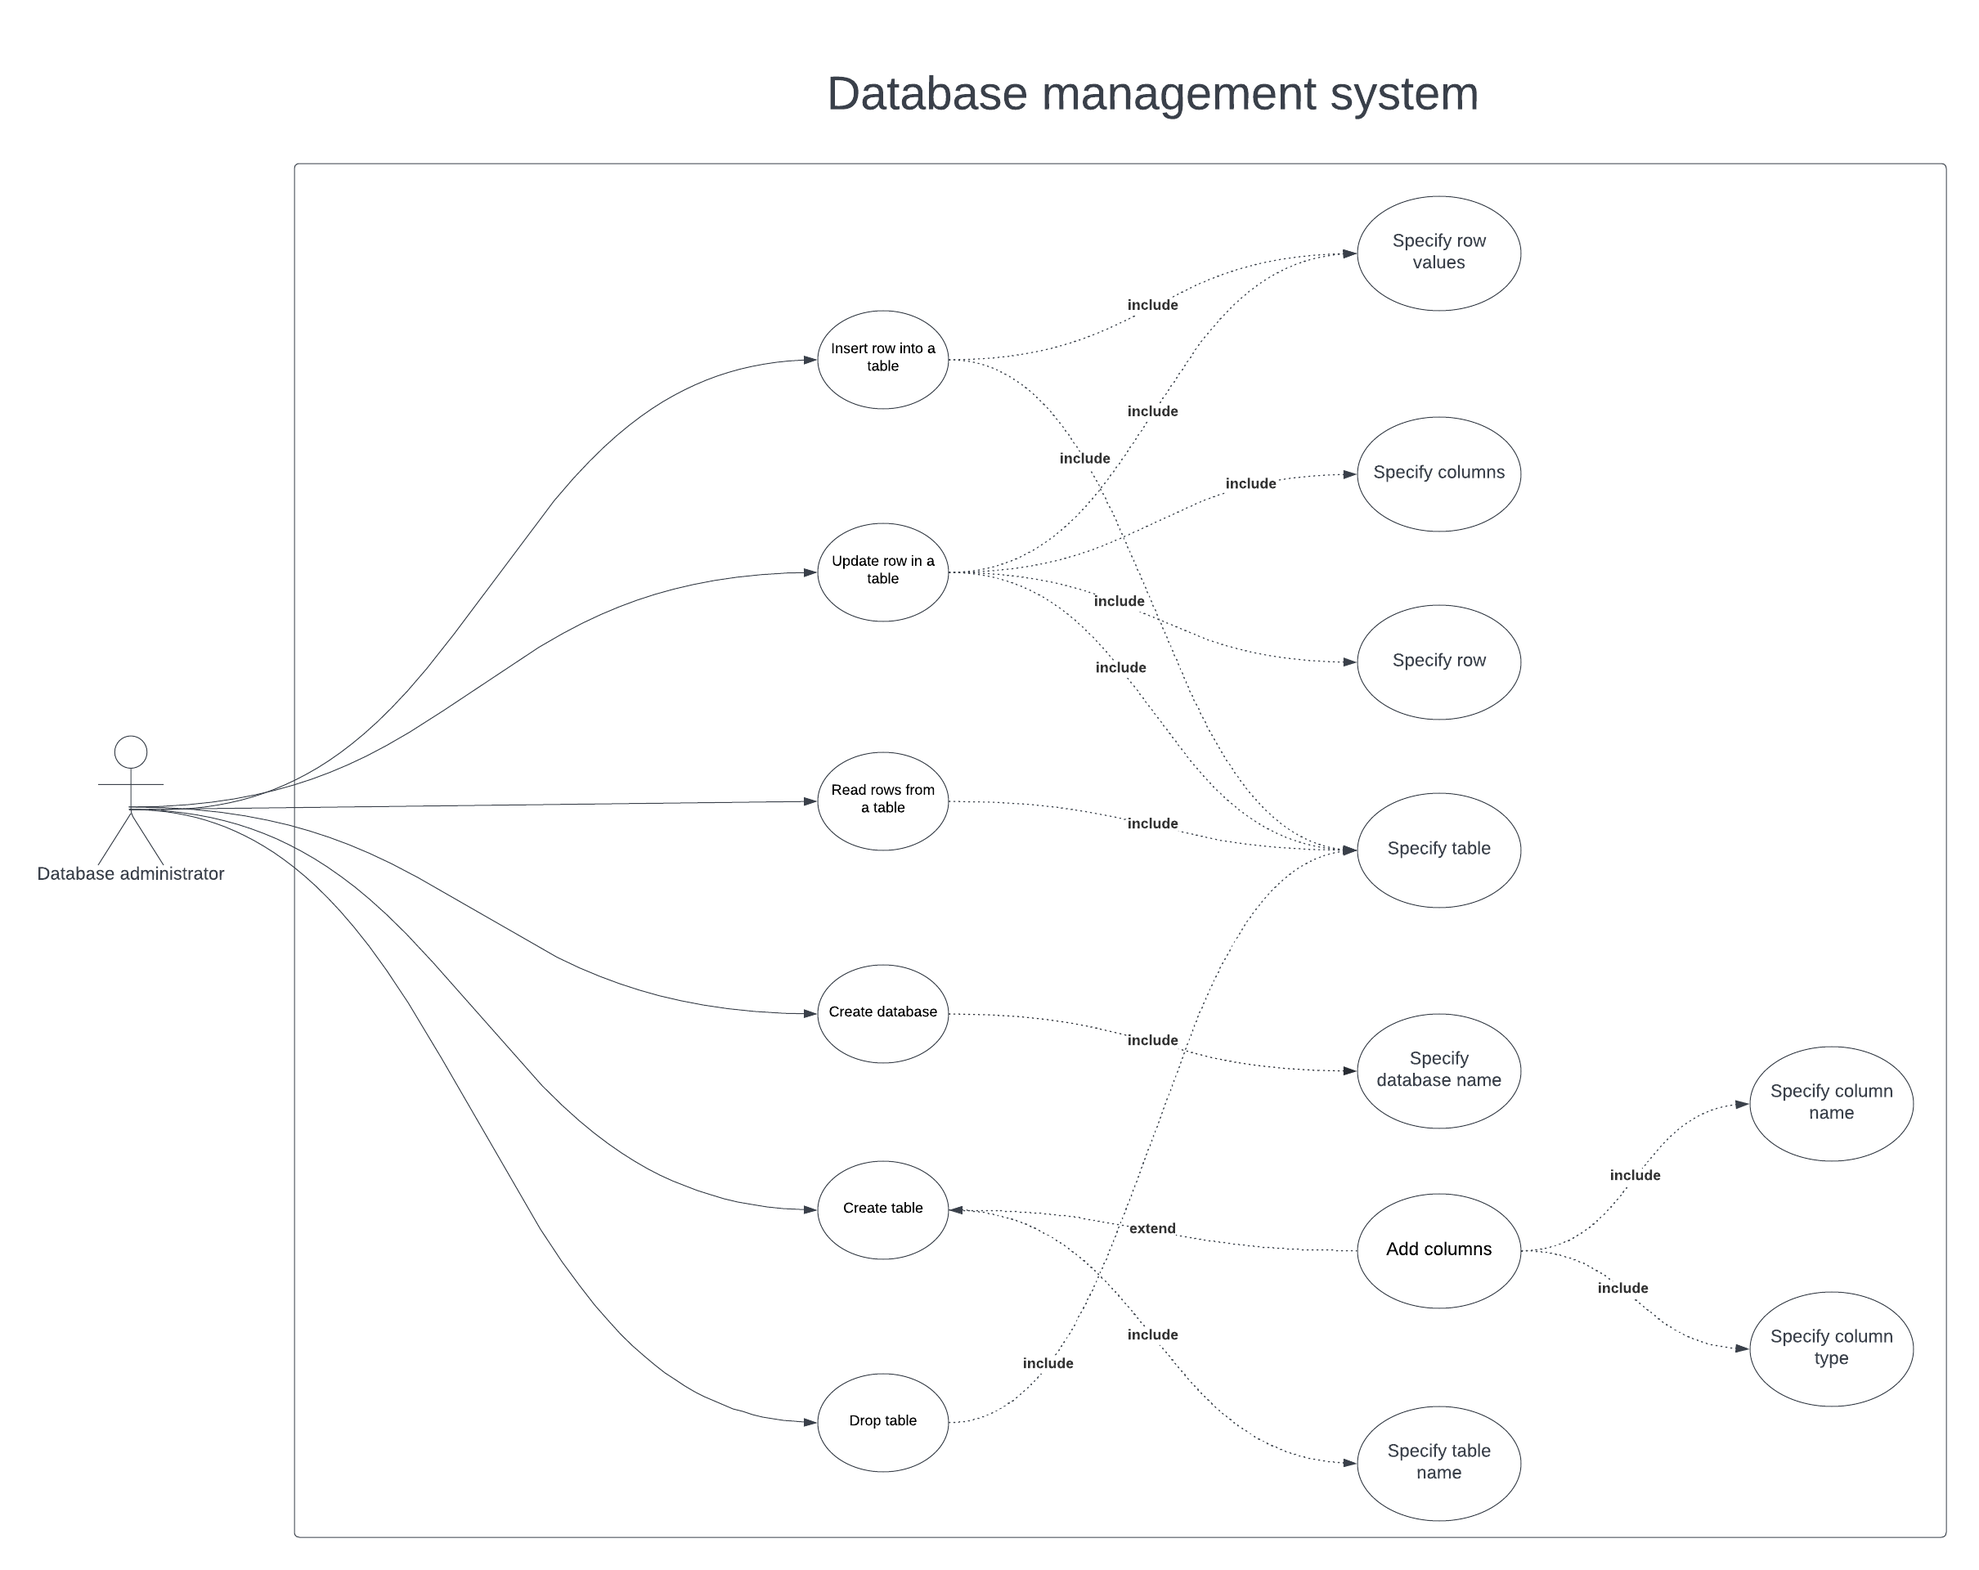
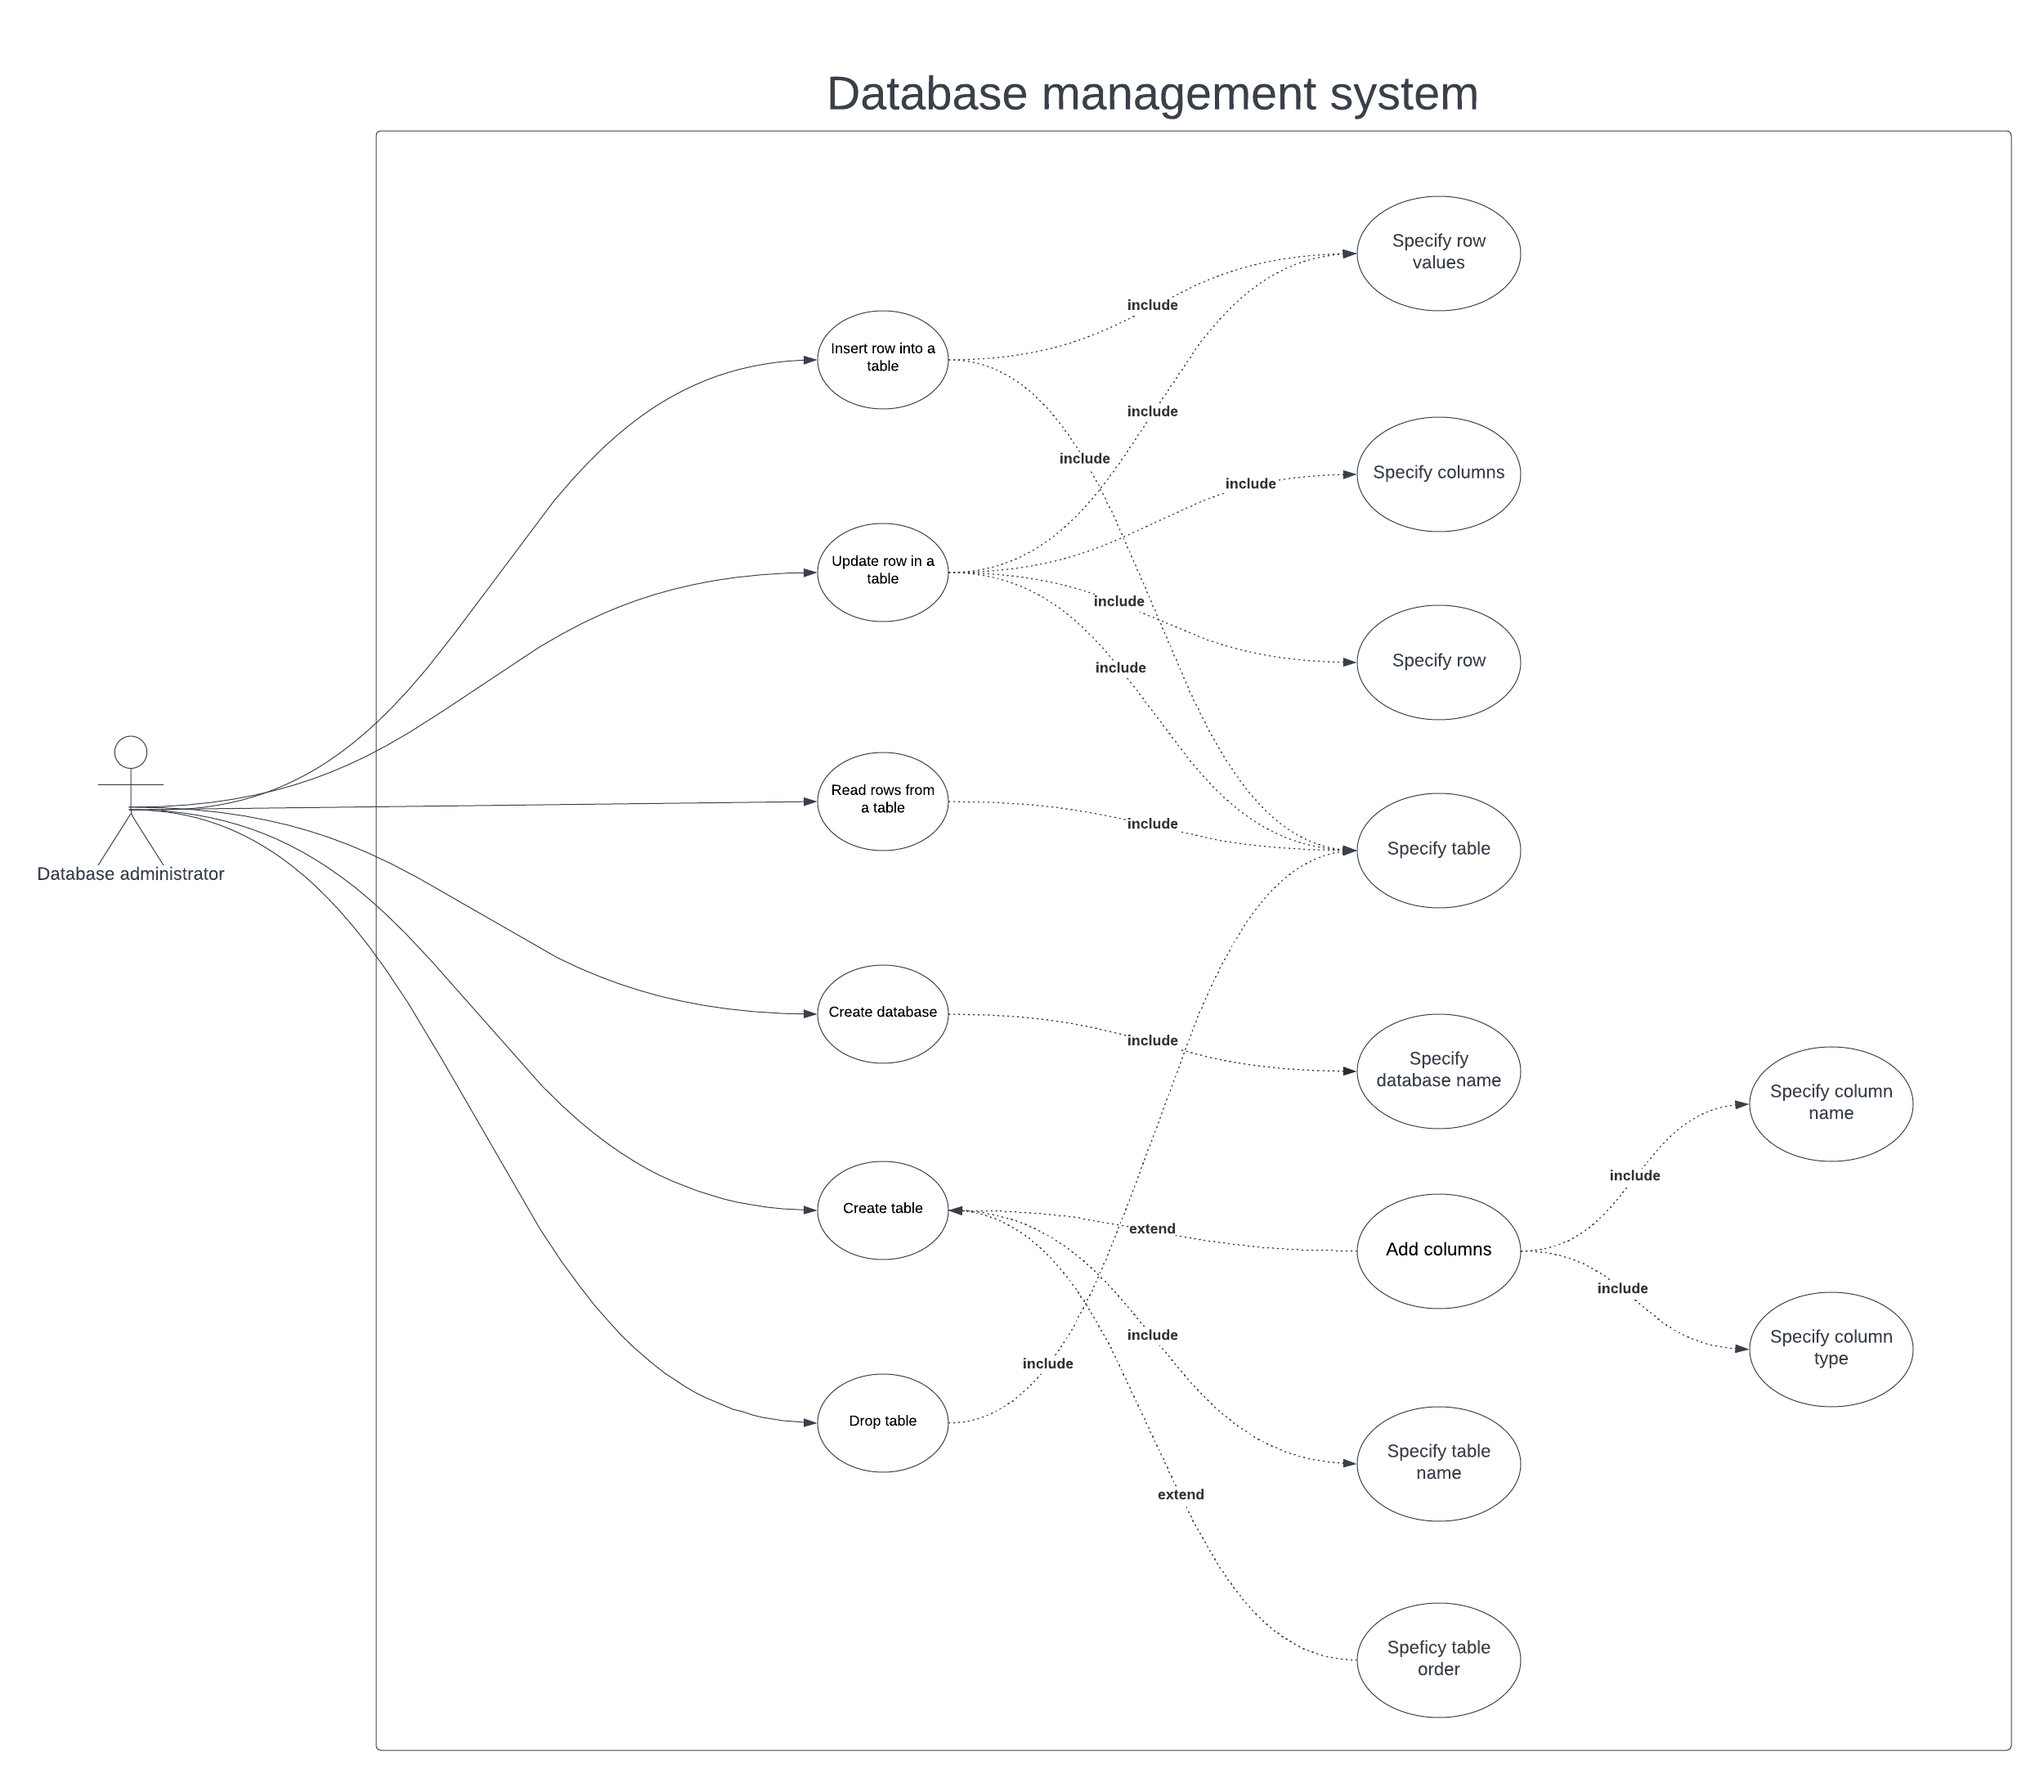
added table ordering to the use case diagram

diff --git a/rdms-core/src/main/java/ua/knu/csc/it/rdms/Table.java b/rdms-core/src/main/java/ua/knu/csc/it/rdms/Table.java
@@ -14,3 +14,5 @@ public class Table {
         return name;
     }
 }
+
+//TODO add table sorting
